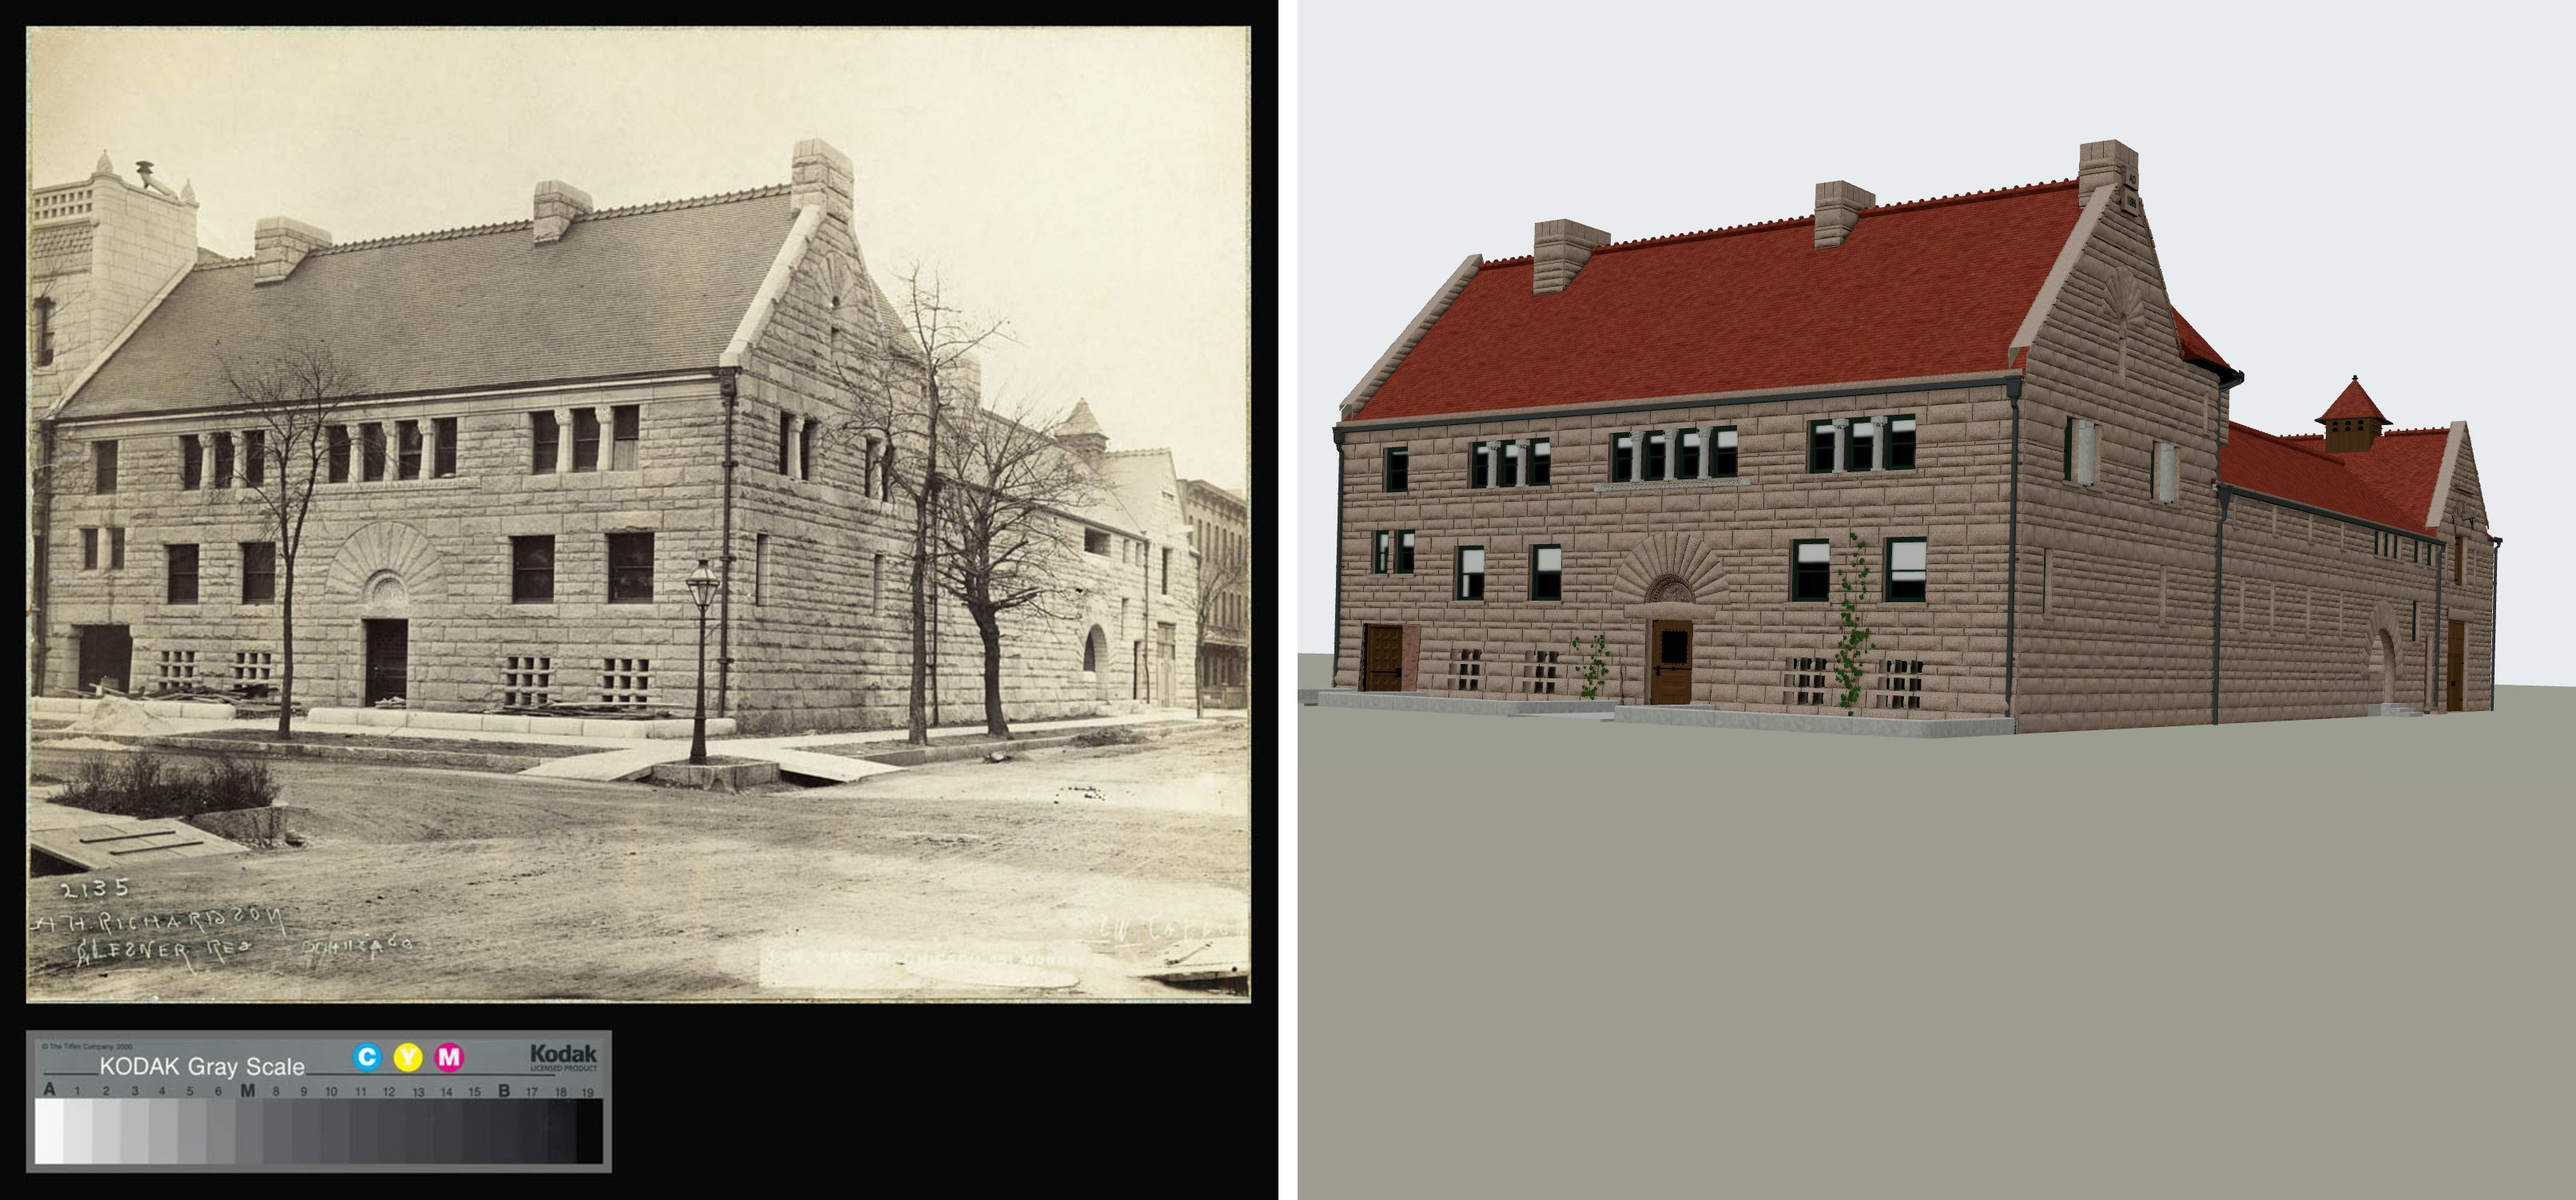
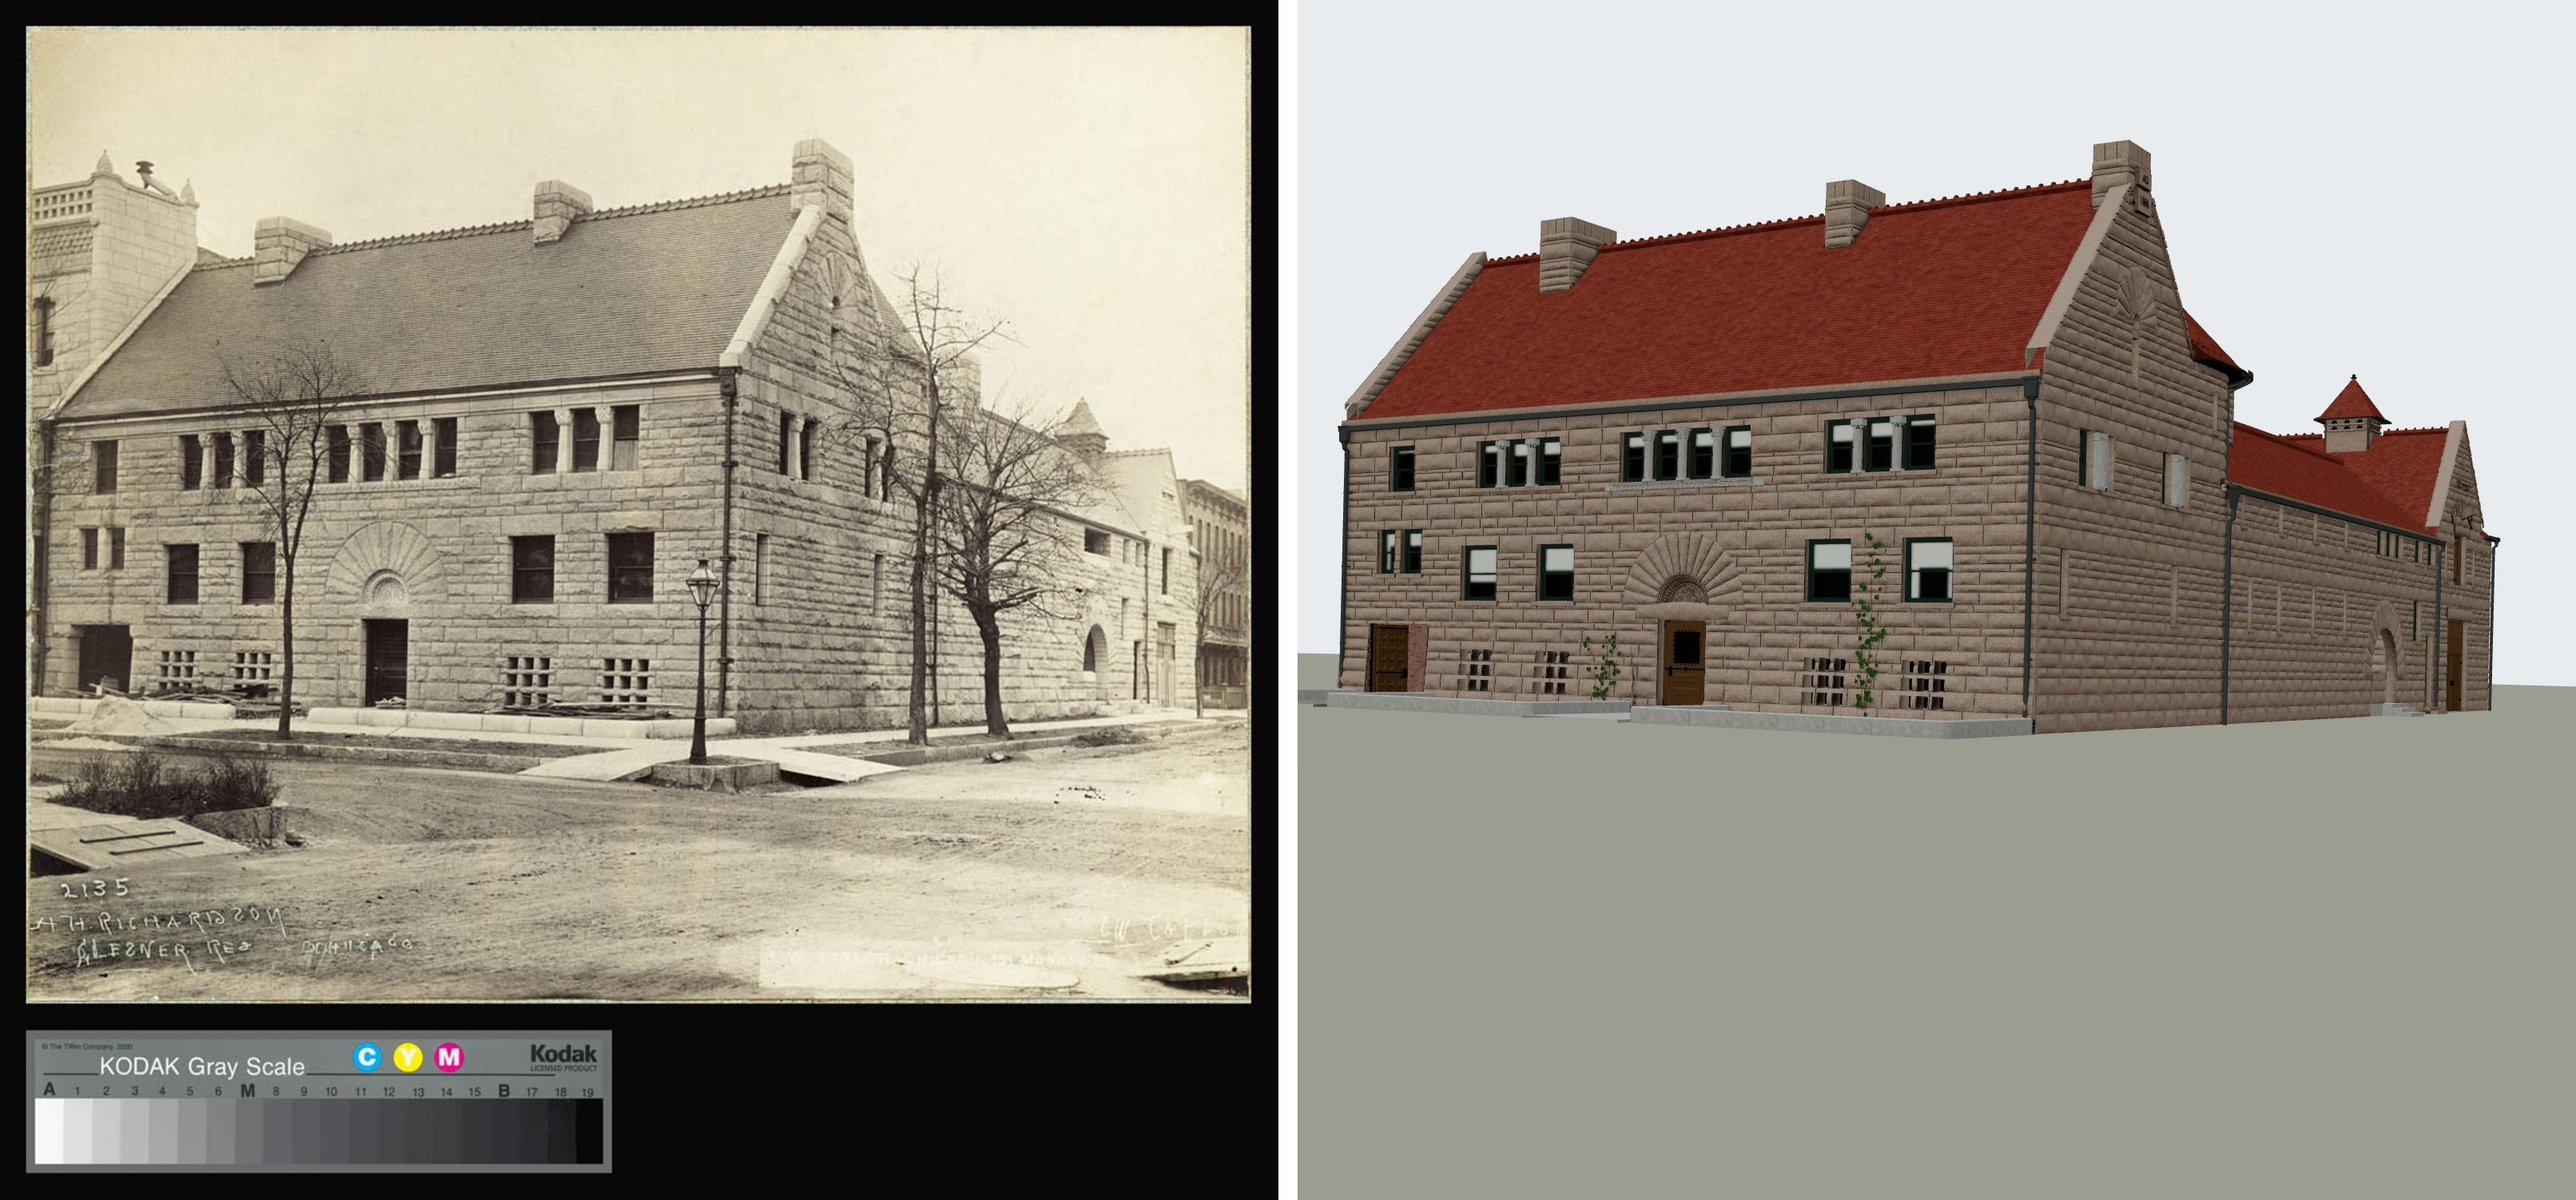
T-2858: three front views re-rendered and reviewed; the reading, its gate step and changelog entry

Changed region(s): [[0.4963, 0.1225, 0.9615, 0.6125], [0.5583, 0.1838, 0.6514, 0.245], [0.8995, 0.3369, 0.9305, 0.3981]]

diff --git a/chicago/4d/tools/glessner_prairie_front.py b/chicago/4d/tools/glessner_prairie_front.py
@@ -260,13 +260,31 @@ def record_openings():
     return by
 
 
+def close(a, b, tol=0.05):
+    """Numbers to tolerance (CI's scipy lands a solve about 1e-7 from a runner's, and a
+    rounded figure can tip a last digit), everything else exactly."""
+    if isinstance(a, dict) and isinstance(b, dict):
+        return a.keys() == b.keys() and all(close(a[k], b[k], tol) for k in a)
+    if isinstance(a, list) and isinstance(b, list):
+        return len(a) == len(b) and all(close(x, y, tol) for x, y in zip(a, b))
+    if isinstance(a, (int, float)) and isinstance(b, (int, float)) and not isinstance(a, bool):
+        return abs(a - b) <= tol
+    return a == b
+
+
+def camera_agrees(cam, t):
+    return (np.abs(np.array(cam["eye"]) - np.array(t["eye"])).max() <= 0.01
+            and np.abs(np.array(cam["basis_right_up_forward"]) - np.array(t["basis_right_up_forward"])).max() <= 1e-4
+            and abs(cam["focal_px"] - t["focal_px"]) <= 0.5)
+
+
 def check(result):
     errs = []
-    if json.loads(OUT.read_text()) != json.loads(json.dumps(result)):
+    if not close(json.loads(OUT.read_text()), json.loads(json.dumps(result))):
         errs.append(f"{OUT.relative_to(ROOT)} is stale: run python3 tools/glessner_prairie_front.py")
     cam = json.loads((VIEWS / "taylor-2135-ne.json").read_text())
     t = result["taylor_2135"]
-    if np.abs(np.array(cam["eye"]) - np.array(t["eye"])).max() > 1e-4 or abs(cam["focal_px"] - t["focal_px"]) > 0.01:
+    if not camera_agrees(cam, t):
         errs.append("taylor-2135-ne.json is not the refitted camera: run with --camera")
     rec = record_openings()
     lights = sorted(tuple(a) for a in rec["first-floor windows"])
@@ -294,7 +312,8 @@ def main():
         ok = check(result)
         print("Glessner's Prairie front stands on sheet 6, Taylor 2135 refitted" if ok else "")
         sys.exit(0 if ok else 1)
-    OUT.write_text(json.dumps(result, indent=2) + "\n")
+    if not (OUT.exists() and close(json.loads(OUT.read_text()), json.loads(json.dumps(result)))):
+        OUT.write_text(json.dumps(result, indent=2) + "\n")
     t = result["taylor_2135"]
     print(f"wrote {OUT.relative_to(ROOT)}")
     for view, rows in result["camera_free"].items():
@@ -306,6 +325,9 @@ def main():
     if a.camera:
         path = VIEWS / "taylor-2135-ne.json"
         cam = json.loads(path.read_text())
+        if camera_agrees(cam, t):
+            print(f"{path.relative_to(ROOT)} already agrees to tolerance; left untouched")
+            return
         for k in ("eye", "yaw_deg", "basis_right_up_forward", "focal_px", "principal_px"):
             cam[k] = t[k]
         cam["solve"]["method"] = (

diff --git a/chicago/4d/docs/RESEARCH/glessner-prairie-front-T-2858/README.md b/chicago/4d/docs/RESEARCH/glessner-prairie-front-T-2858/README.md
@@ -1,0 +1,83 @@
+# Glessner's Prairie lights moved to HABS sheet 6 (T-2858)
+
+T-2857 read the Prairie front against HABS sheet 6 and three street photographs
+(`docs/RESEARCH/glessner-prairie-front-T-2857/`). It found the north-end openings 0.30-0.63 ft
+south of the sheet's positions and the first-floor lights 3.9 ft wide where the sheet draws
+4.3-4.45 ft. It left three things to rule. This piece rules them and builds the answer.
+`tools/glessner_prairie_front.py` re-derives every number below from T-2857's picks. Nothing is
+re-picked. Its report is `data/comparisons/glessner/prairie-front.json`, and `check.sh` holds it.
+
+## 1. The widths: the sheet is right, and the oblique photographs see the sash
+
+The two NE photographs fitted the old 3.9 ft better than the sheet's outer lines. Both are
+oblique, 25-42 degrees off the front's normal. From there each light's south reveal faces the
+camera, so the edge of the dark glass on that side is the sash, set back behind the arris. The
+model sets it 0.49-0.98 ft back. Seen from the north-east it lands displaced toward the camera,
+which makes the light look narrower. T-2857's one-dimensional fit had treated every jamb as an
+arris.
+
+Each such jamb is now projected from the camera's eye at the sash depth, with no free
+parameter. Jamb rms, old schedule → sheet 6, by reveal depth:
+
+| photograph | 0 ft | 0.49 ft | 0.6 ft | 0.95 ft |
+|---|---|---|---|---|
+| taylor-2135-ne | 1.50 → 2.87 | 1.93 → 1.23 | 2.24 → 0.98 | 3.40 → 1.22 |
+| habs-17-habs-ne | 1.62 → 1.88 | 2.16 → 1.46 | 2.35 → 1.49 | 3.03 → 1.83 |
+| habs-16-prairie-front | 3.30 → 2.69 | 3.19 → 2.03 | 3.22 → 1.94 | 3.42 → 1.85 |
+
+With any real reveal, sheet 6 fits all three photographs better. The frontal HABS 16 prefers
+it even at zero. If one free inset is fitted instead, it comes out at 0.40-0.55 ft on both NE
+photographs. So the lights are built at the sheet's outer lines: A 7.19-11.65, B 16.28-20.67,
+C 44.87-49.21 and D 53.98-58.40 ft from the north end. The second-floor north group is built at
+8.98-19.12.
+
+The basement grilles stay 3.9 ft wide and are centred under the moved lights. Read at full
+resolution, sheet 6 draws them centred under each light and about 4.0 ft across.
+
+## 2. The door stays
+
+Sheet 6 gives the door only at its fan's centre (32.53 ft against the built 32.9), because the
+reveal is hatched. The photographs split on it: Taylor 2135 fits the built place better (0.93
+against 1.62 px), HABS 16 the sheet's (1.09 against 1.98), and HABS 17 neither. The door moves
+the fan, the lintel and the stoop with it, so it stays at 30.4-35.4. Sheet 5 and its own image
+gate (T-2853) are the place to read it.
+
+## 3. The corners stand
+
+Fitted on sheet 6's openings, with a 0.6 ft reveal:
+
+- taylor-2135-ne: the N corner pick reads 1.34 ft from the north end
+- habs-17-habs-ne: the N corner pick reads 0.70 ft from the north end
+- habs-16-prairie-front: the S corner pick reads 73.13 ft from the north end
+
+The corner picks stand on the downspouts, which sheet 6 draws 0.90 ft (north) and 0.82 ft
+(south) in from the corners. Each pick reads within about 0.45 ft of its downspout. The
+2.0-2.6 ft T-2857 found was the old schedule's error carried 8 ft past the last jamb, so the
+piers stand as built.
+
+## 4. Taylor 2135 refitted
+
+The camera used to stand on five controls, two of them the downspouts taken as corners, and
+put every first-floor jamb 20.5 px left of the photograph. It is now refitted on the ten
+first-floor jambs (x only, with the far jamb at the sash), the corners' heights and the north
+gable's foot. The corners' x picks are left out, because no source gives the downspouts'
+standoff from the wall. It is a level camera with a small fitted roll, the height held to
+1.0-2.5 m and the principal point held. The solve has more than one minimum, so it starts from
+21 seeds and keeps the best.
+
+- fit: 1.36 px rms; jambs +1.8, -0.3, -0.2, -0.3, -1.1, -3.6, +2.0, +0.9, +1.0, -0.0 px
+- stacks, withheld (render minus photograph): before {"south": {"right_x": -22, "top_y": 2}, "middle": {"left_x": -21, "right_x": -19, "top_y": -1}, "north": {"left_x": -13, "right_x": -15, "top_y": 1}};
+  after {"south": {"right_x": -14.6, "top_y": -0.5}, "middle": {"left_x": -7.8, "right_x": -6.6, "top_y": -2.1}, "north": {"left_x": 3.6, "right_x": 0.7, "top_y": 1.6}} (6.5 px rms, from 14.5)
+
+The stack tops stay within 2 px. The south stack's north face still reads 14.6 px left, the
+middle stack's 7-8 px and the north stack's within 4 px. That is a gradient along the roof which
+the jambs below do not show. It is left open on the match record, because this piece does not
+read the stacks' plan places.
+
+## The three views
+
+Rebaked, and all three side-by-sides re-rendered. In Taylor 2135, lights A and B, the door and
+the grilles now sit on the photograph's within a few pixels. In HABS 17 the moved lights and the
+north group sit on the photograph's horizontally. That frozen camera's vertical offset is its
+own, from T-2200's 33.7 px withheld checks. Each front item is closed on its match record, and
+all three still read `differs` on the stone relief and, for Taylor, the south stack.

diff --git a/chicago/4d/docs/STATUS.md b/chicago/4d/docs/STATUS.md
@@ -23982,3 +23982,18 @@ T-2228 published entrance validation: three Full desktop and three Light mobile 
 ## T-2857 — Glessner's Prairie front read (2026-10-19)
 
 Nothing in the scene changed. T-2851 was split into this reading and T-2858, which builds what it found. The Prairie openings were read camera-free, with a one-dimensional projective fit along each course, on Taylor 2135, HABS 16 and HABS 17. They fit the model's spacing to 1.5, 3.3 and 1.6 px rms. HABS sheet 6 was re-measured off its scale bar, and its front measures 73.98 ft against the printed 74'-0". Against it, first-floor A, B and the door, and the second-floor north group, are built 0.30-0.63 ft too far south. The sheet also draws the first-floor lights 4.3-4.45 ft wide where 3.9 ft is built. Taylor's camera has its corner controls on the downspouts, and through it the openings and the stacks register 15-22 px left together. That is the camera, not the building. The stack tops agree with that photograph within 2 px. The match records' generic front items are now specific, and all three views still read `differs`. See docs/RESEARCH/glessner-prairie-front-T-2857/.
+
+## T-2858 — Glessner's Prairie lights on HABS sheet 6 (2026-10-19)
+
+The four first-floor Prairie lights are now built at sheet 6's outer lines (4.36-4.46 ft wide;
+A and B 0.38-0.63 ft further north). The basement grilles are centred under them, and the
+second-floor north group is 0.30 ft north. The NE photographs had read the lights narrower
+because, seen obliquely, the far jamb is the sash behind the reveal. With that projected (no free
+parameter), sheet 6 fits all three street photographs better than the old 3.9 ft. The door stays
+where it was: the sheet gives only its fan's centre, and the photographs split on it. The corner
+picks read on the downspouts, so the piers stand. Taylor 2135 is refitted on the jambs at 1.36 px
+rms, against 20.5 px off before. Its withheld stacks fall from 14.5 to 6.5 px rms, and the south
+stack's face is still 14.6 px off and open. Rebaked; the three front views are re-rendered and
+their front items closed, and all still read `differs`. See
+docs/RESEARCH/glessner-prairie-front-T-2858/.
+
